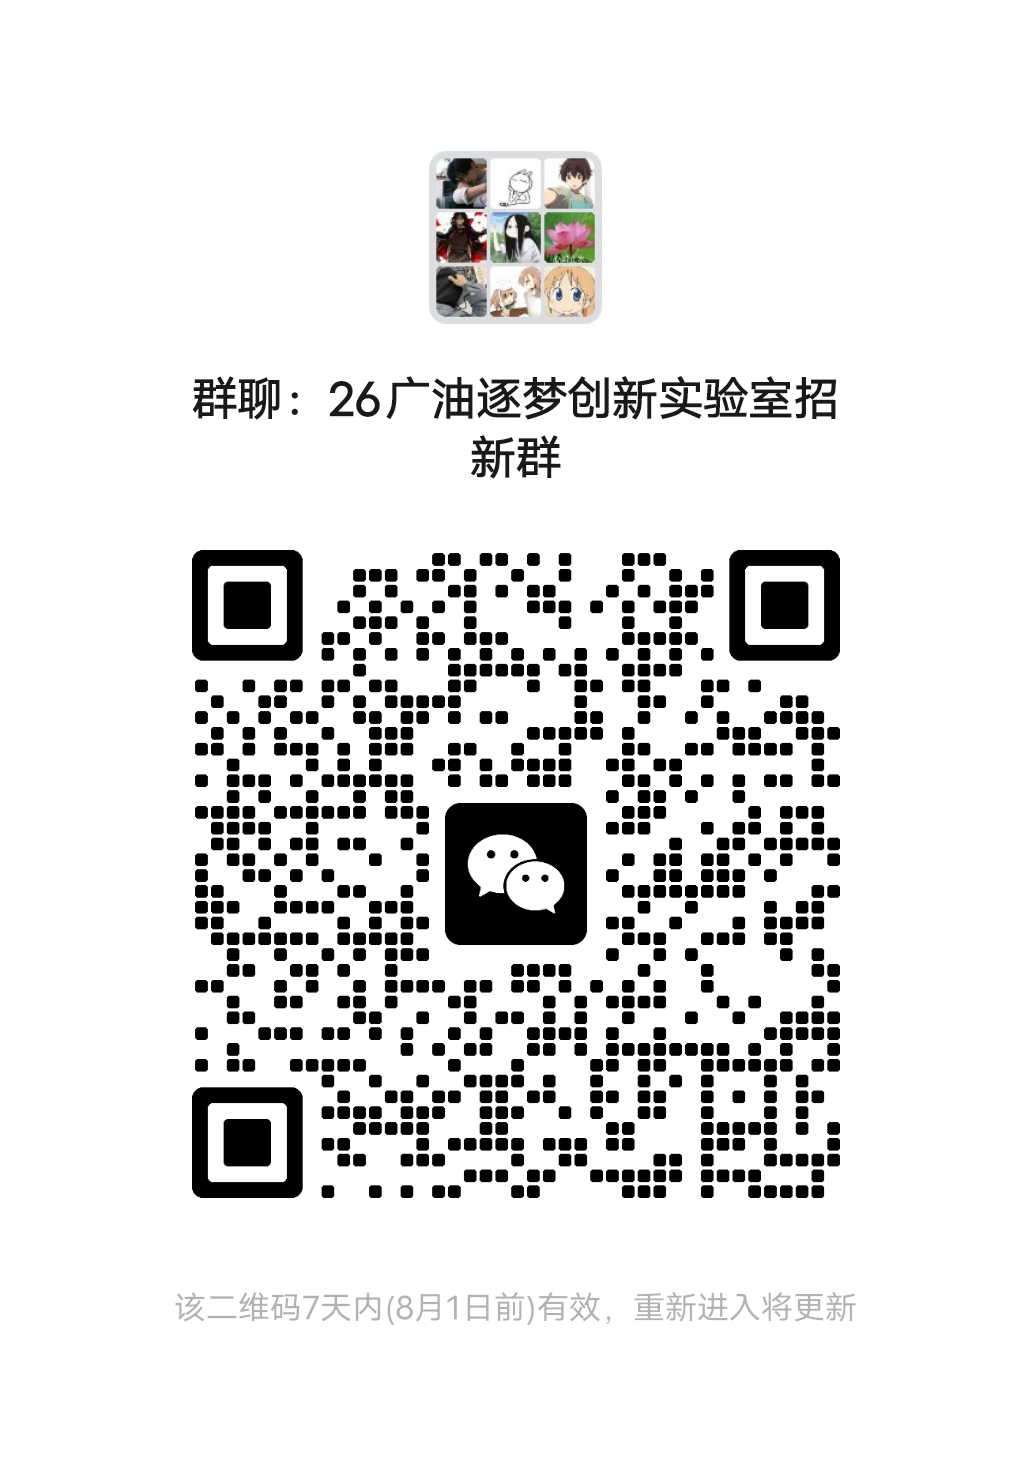
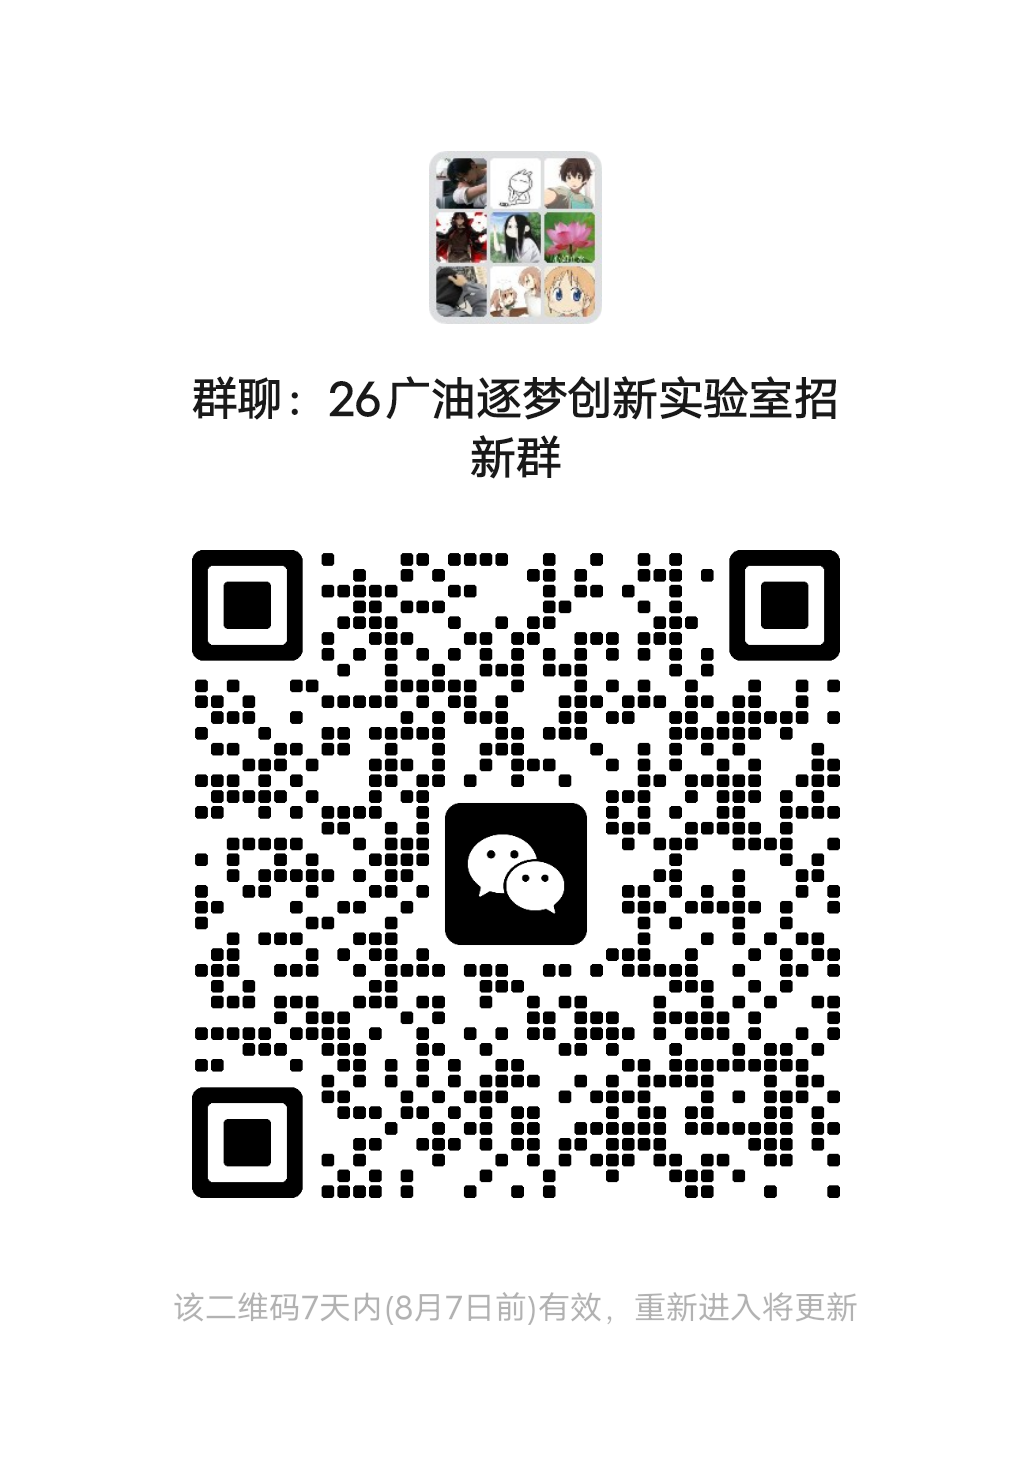
Update recruitment QR code

diff --git a/index.html b/index.html
@@ -494,7 +494,7 @@
         <div class="apply-panel" aria-label="报名准备">
           <figure class="qr-card">
             <img
-              src="./assets/recruitment-qr.png?v=20260725"
+              src="./assets/recruitment-qr.png?v=20260731"
               alt="26广油逐梦创新实验室招新群二维码"
               width="1031"
               height="1478"
@@ -503,7 +503,7 @@
             <figcaption>
               <strong>扫码加入招新咨询群</strong>
               <span>26广油逐梦创新实验室招新群</span>
-              <small>二维码 7 天内有效，8 月 1 日前可扫码加入。</small>
+              <small>二维码 7 天内有效，8 月 7 日前可扫码加入。</small>
             </figcaption>
           </figure>
           <div class="apply-actions">
